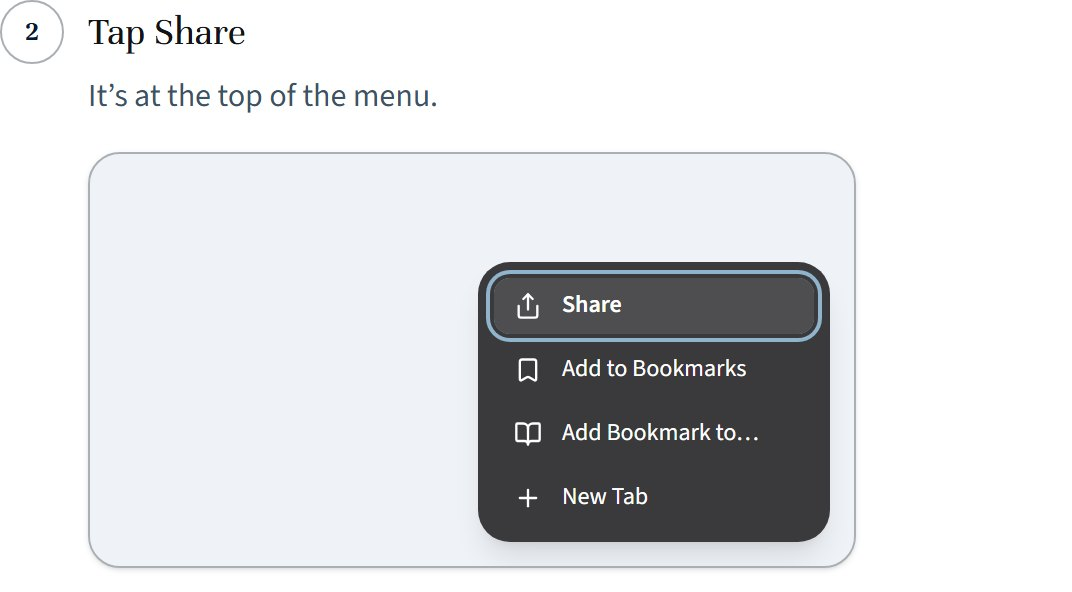
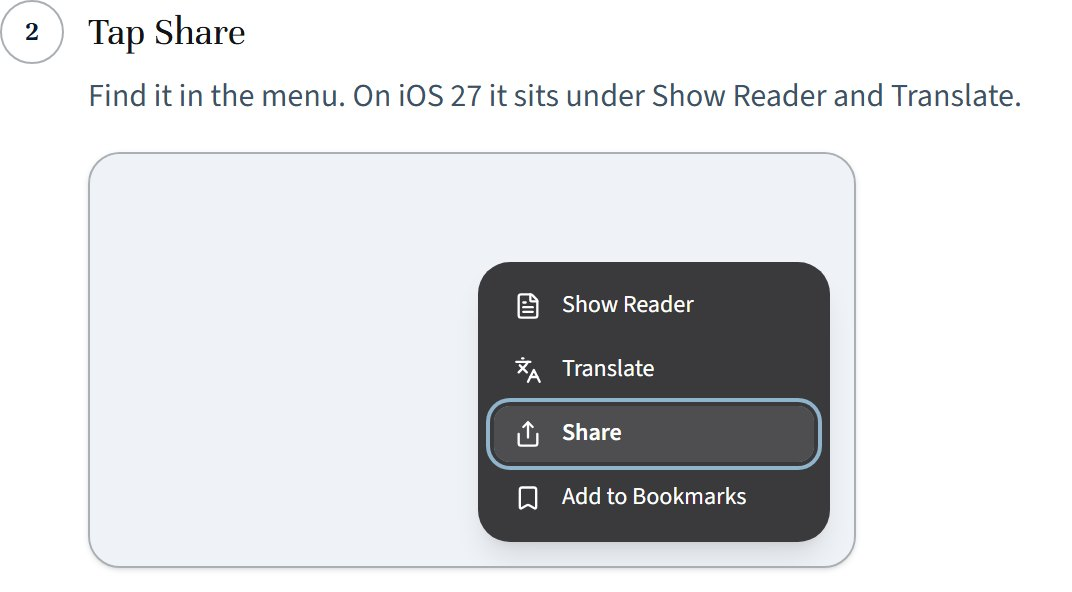
docs(guides): match Safari on iOS 27 and add a version-proof note
iOS 27 moves Share below Show Reader and Translate in the three-dot
menu. The guide and the launch email now say: whatever your iOS
version looks like, find Share, then scroll to Add to Home Screen.

diff --git a/src/app/portal/guides/install/page.tsx b/src/app/portal/guides/install/page.tsx
@@ -3,7 +3,7 @@ import Image from "next/image";
 import Link from "next/link";
 import { headers } from "next/headers";
 import { redirect } from "next/navigation";
-import { Bookmark, BookOpen, ChevronDown, Clock, Copy, EllipsisVertical, Glasses, Lightbulb, Lock, Plus, RotateCw, Search, Share, SquarePlus, Star, X } from "lucide-react";
+import { Bookmark, BookOpen, FileText, Languages, ChevronDown, Clock, Copy, EllipsisVertical, Glasses, Lightbulb, Lock, Plus, RotateCw, Search, Share, SquarePlus, Star, X } from "lucide-react";
 import { AUDIENCE_BADGE, GUIDE_ICONS } from "@/components/guides/guide-meta";
 import { GuideNeighbours } from "@/components/guides/guide-neighbours";
 import { Breadcrumb } from "@/components/portal/breadcrumb";
@@ -90,6 +90,12 @@ export default async function InstallGuidePage({ searchParams }: { searchParams:
 					))}
 				</nav>
 			</div>
+
+			{os === "ios" ? (
+				<Tip>
+					<strong>On any iOS version:</strong> Safari’s menus move around between updates. Whatever yours looks like, find <strong>Share</strong>, then scroll down to <strong>Add to Home Screen</strong>.
+				</Tip>
+			) : null}
 
 			<ol className="grid min-w-0 border-t border-border/60 pt-8">
 				{steps.map((step, index) => {
@@ -328,14 +334,14 @@ const IOS_STEPS: Step[] = [
 	{
 		key: "i2",
 		title: "Tap Share",
-		body: "It’s at the top of the menu.",
+		body: "Find it in the menu. On iOS 27 it sits under Show Reader and Translate.",
 		mock: (
 			<div className="grid h-full content-end justify-items-end bg-secondary/40 p-3">
 				<DarkSheet className="w-44">
+					<SheetRow icon={FileText} label="Show Reader" />
+					<SheetRow icon={Languages} label="Translate" />
 					<SheetRow icon={Share} label="Share" active />
 					<SheetRow icon={Bookmark} label="Add to Bookmarks" />
-					<SheetRow icon={BookOpen} label="Add Bookmark to…" />
-					<SheetRow icon={Plus} label="New Tab" />
 				</DarkSheet>
 			</div>
 		),

diff --git a/src/lib/email/starters.ts b/src/lib/email/starters.ts
@@ -30,9 +30,9 @@ export function emailStarters(baseUrl: string) {
 				button("Add it to your phone", `${portal}/guides/install`),
 				divider,
 				heading("On iPhone or iPad", 2),
-				text("Open the portal in **Safari**, then follow the taps."),
+				text("Open the portal in **Safari**, then follow the taps. Menus move around a little between iOS versions, so whatever yours looks like, find **Share**, then scroll down to **Add to Home Screen**."),
 				image(`${baseUrl}/email/app-launch/ios-1.jpg`, "Step 1: in Safari, tap the three-dot button at the bottom right.", `${portal}/guides/install?os=ios`),
-				image(`${baseUrl}/email/app-launch/ios-2.jpg`, "Step 2: tap Share at the top of the menu.", `${portal}/guides/install?os=ios`),
+				image(`${baseUrl}/email/app-launch/ios-2.jpg`, "Step 2: tap Share in the menu.", `${portal}/guides/install?os=ios`),
 				image(`${baseUrl}/email/app-launch/ios-3.jpg`, "Step 3: tap View More at the end of the share sheet's bottom row.", `${portal}/guides/install?os=ios`),
 				image(`${baseUrl}/email/app-launch/ios-4.jpg`, "Step 4: scroll down and tap Add to Home Screen.", `${portal}/guides/install?os=ios`),
 				image(`${baseUrl}/email/app-launch/ios-5.jpg`, "Step 5: keep Open as Web App on and tap Add.", `${portal}/guides/install?os=ios`),
